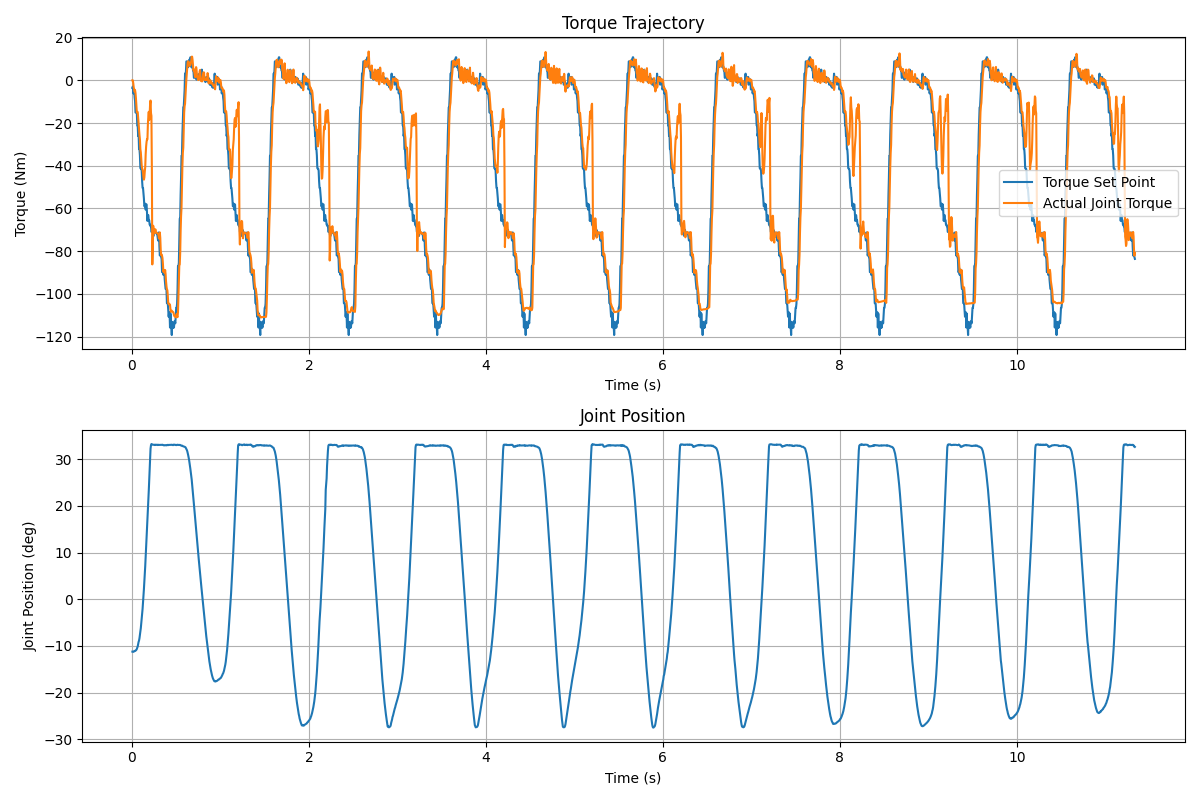
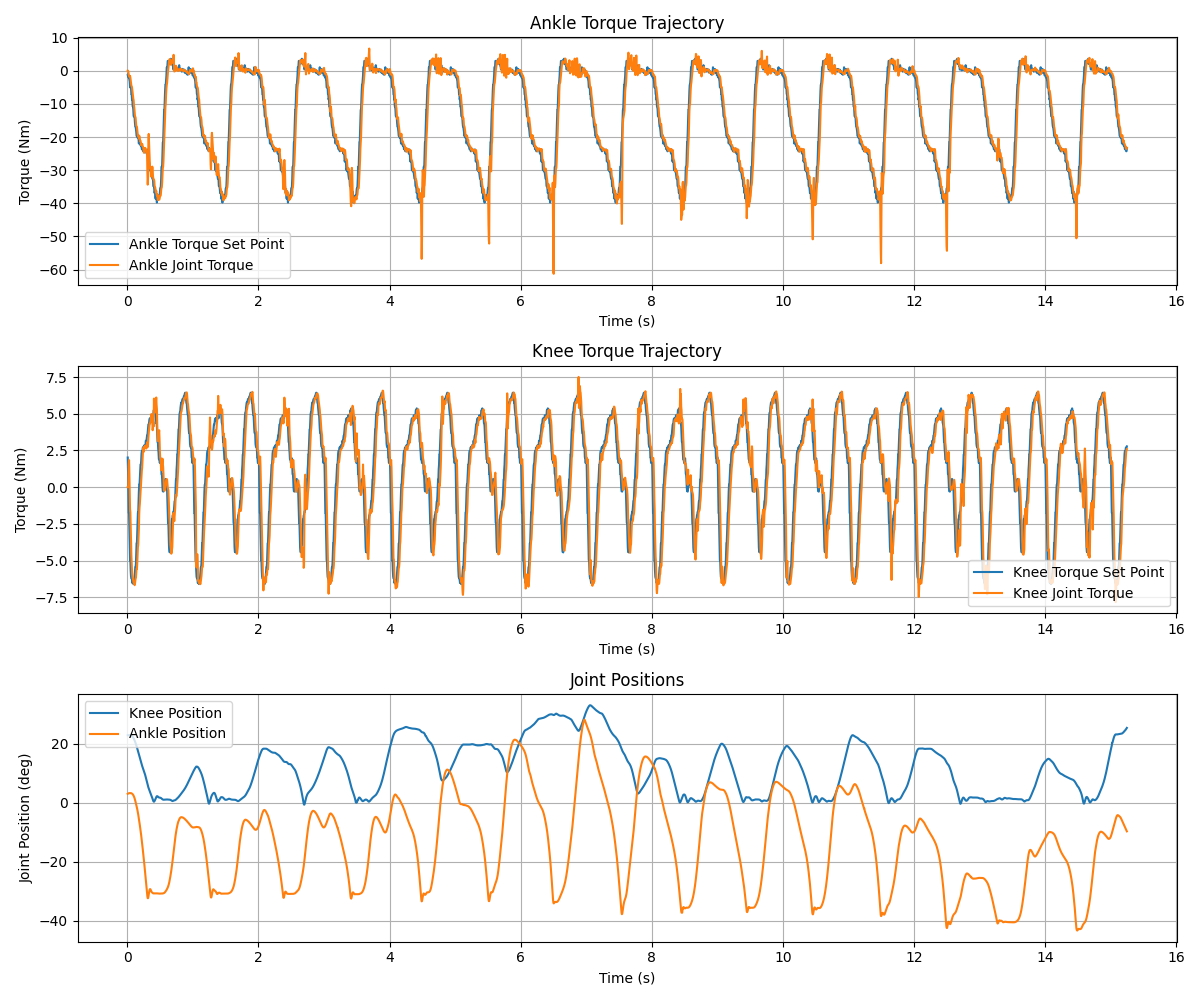
fix: add knee trajectories to example script

Changed region(s): [[0.0, 0.0, 0.9867, 1.0], [0.0308, 0.5625, 0.0617, 0.5938]]

diff --git a/tutorials/control/torque_trajectory.py b/tutorials/control/torque_trajectory.py
@@ -1,3 +1,8 @@
+"""
+This example is not meant to be used as a walking controller but
+just to provide a reference for how a torque trajectory can be loaded and commanded.
+"""
+
 import pickle
 
 import numpy as np
@@ -5,13 +10,17 @@ import numpy as np
 from opensourceleg.actuators import CONTROL_MODES
 from opensourceleg.actuators.dephy import DephyActuator
 from opensourceleg.logging import LOGGER, Logger
+from opensourceleg.robots.osl import OpenSourceLeg
 from opensourceleg.sensors.encoder import AS5048B
 from opensourceleg.time import SoftRealtimeLoop
 
-TRAJECTORY_PATH = "./smoothed_action_mean_6999.pkl"
+ANKLE_TRAJECTORY_PATH = "./ankle.pkl"
+KNEE_TRAJECTORY_PATH = "./knee.pkl"
+
 TRAJECTORY_LEN = 150
 
-USER_MASS = 60  # kg
+# DONOT EXCEED 20 KG
+USER_MASS = 0  # kg
 GEAR_RATIO = 9 * (83 / 18)
 
 FREQUENCY = 200
@@ -32,23 +41,37 @@ def plot_data(plotting_data: list) -> None:
         return
 
     # plot the data using matplotlib
-    plt.figure(figsize=(12, 8))
+    plt.figure(figsize=(12, 10))
 
-    # Create two subplots
-    plt.subplot(2, 1, 1)
-    plt.plot(plotting_data[0], plotting_data[1], label="Torque Set Point")
-    plt.plot(plotting_data[0], plotting_data[3], label="Actual Joint Torque")
+    # Create three subplots for better visualization
+    # Ankle Torque
+    plt.subplot(3, 1, 1)
+    plt.plot(plotting_data[0], plotting_data[1], label="Ankle Torque Set Point")
+    plt.plot(plotting_data[0], plotting_data[3], label="Ankle Joint Torque")
     plt.xlabel("Time (s)")
     plt.ylabel("Torque (Nm)")
-    plt.title("Torque Trajectory")
+    plt.title("Ankle Torque Trajectory")
     plt.legend()
     plt.grid(True)
 
-    plt.subplot(2, 1, 2)
-    plt.plot(plotting_data[0], plotting_data[2])
+    # Knee Torque
+    plt.subplot(3, 1, 2)
+    plt.plot(plotting_data[0], plotting_data[2], label="Knee Torque Set Point")
+    plt.plot(plotting_data[0], plotting_data[4], label="Knee Joint Torque")
+    plt.xlabel("Time (s)")
+    plt.ylabel("Torque (Nm)")
+    plt.title("Knee Torque Trajectory")
+    plt.legend()
+    plt.grid(True)
+
+    # Joint Positions
+    plt.subplot(3, 1, 3)
+    plt.plot(plotting_data[0], np.rad2deg(plotting_data[5]), label="Knee Position")
+    plt.plot(plotting_data[0], np.rad2deg(plotting_data[6]), label="Ankle Position")
     plt.xlabel("Time (s)")
     plt.ylabel("Joint Position (deg)")
-    plt.title("Joint Position")
+    plt.title("Joint Positions")
+    plt.legend()
     plt.grid(True)
 
     plt.tight_layout()
@@ -59,44 +82,100 @@ def plot_data(plotting_data: list) -> None:
 if __name__ == "__main__":
     torque_logger = Logger(log_path="./logs", file_name="torque_trajectory")
     clock = SoftRealtimeLoop(dt=1 / FREQUENCY)
-    actuator = DephyActuator(
-        tag="ankle", port="/dev/ttyACM0", gear_ratio=GEAR_RATIO, frequency=FREQUENCY, stop_motor_on_disconnect=True
+
+    actuators = {
+        "knee": DephyActuator(
+            tag="knee",
+            port="/dev/ttyACM0",
+            gear_ratio=GEAR_RATIO,
+            frequency=FREQUENCY,
+            dephy_log=False,
+        ),
+        "ankle": DephyActuator(
+            tag="ankle",
+            port="/dev/ttyACM1",
+            gear_ratio=GEAR_RATIO,
+            frequency=FREQUENCY,
+            dephy_log=False,
+        ),
+    }
+
+    sensors = {
+        "joint_encoder_knee": AS5048B(
+            tag="joint_encoder_knee",
+            bus=1,
+            A1_adr_pin=True,
+            A2_adr_pin=False,
+            zero_position=0,
+            enable_diagnostics=False,
+        ),
+        "joint_encoder_ankle": AS5048B(
+            tag="joint_encoder_ankle",
+            bus=1,
+            A1_adr_pin=False,
+            A2_adr_pin=True,
+            zero_position=0,
+            enable_diagnostics=False,
+        ),
+    }
+
+    osl = OpenSourceLeg(
+        tag="osl",
+        actuators=actuators,
+        sensors=sensors,
     )
-    encoder = AS5048B(
-        bus=1,
-        A1_adr_pin=False,
-        A2_adr_pin=True,
-        name="encoder1",
-        zero_position=0,
-        enable_diagnostics=False,
-    )
-    plotting_data = [[], [], [], []]
 
-    with open(TRAJECTORY_PATH, "rb") as f:
-        data = pickle.load(f)  # noqa: S301
+    plotting_data = [
+        [],
+        [],
+        [],
+        [],
+        [],
+        [],
+        [],
+    ]  # Time, ankle_sp, knee_sp, ankle_torque, knee_torque, knee_pos, ankle_pos
 
-    with actuator, encoder:
-        actuator.set_control_mode(CONTROL_MODES.CURRENT)
-        actuator.set_current_gains()
-        actuator.set_output_torque(0)
+    with open(ANKLE_TRAJECTORY_PATH, "rb") as f:
+        ankle_data = pickle.load(f)  # noqa: S301
 
-        encoder.set_zero_position()
+    with open(KNEE_TRAJECTORY_PATH, "rb") as f:
+        knee_data = pickle.load(f)  # noqa: S301
+
+    with osl:
+        osl.home()
+
+        osl.knee.set_control_mode(CONTROL_MODES.CURRENT)
+        osl.knee.set_current_gains()
+        osl.knee.set_output_torque(0)
+
+        osl.ankle.set_control_mode(CONTROL_MODES.CURRENT)
+        osl.ankle.set_current_gains()
+        osl.ankle.set_output_torque(0)
 
         input("Press Enter to start walking")
 
         for t in clock:
-            actuator.update()
-            encoder.update()
-            torque_sp = get_torque(t, data)
+            osl.update()
+
+            ankle_torque_sp = get_torque(t, ankle_data)
+            knee_torque_sp = get_torque(t, knee_data)
+
+            osl.ankle.set_output_torque(ankle_torque_sp)
+            osl.knee.set_output_torque(knee_torque_sp)
+
             torque_logger.info(
-                f"t: {t}, torque_sp: {torque_sp}, output_torque: {actuator.output_torque}, "
-                f"winding_temperature: {actuator.winding_temperature}"
+                f"t: {t}, ankle_torque_sp: {ankle_torque_sp}, knee_torque_sp: {knee_torque_sp}, "
+                f"ankle_output_torque: {osl.ankle.output_torque}, "
+                f"knee_output_torque: {osl.knee.output_torque} "
+                f"knee_position: {osl.knee.output_position}, ankle_position: {osl.ankle.output_position}"
             )
             plotting_data[0].append(t)
-            plotting_data[1].append(torque_sp)
-            plotting_data[2].append(np.rad2deg(encoder.position))
-            plotting_data[3].append(actuator.output_torque)
+            plotting_data[1].append(ankle_torque_sp)
+            plotting_data[2].append(knee_torque_sp)
+            plotting_data[3].append(osl.ankle.output_torque)
+            plotting_data[4].append(osl.knee.output_torque)
+            plotting_data[5].append(osl.knee.output_position)
+            plotting_data[6].append(osl.ankle.output_position)
 
-            actuator.set_output_torque(torque_sp)
-
+    print("Plotting data...")
     plot_data(plotting_data)
